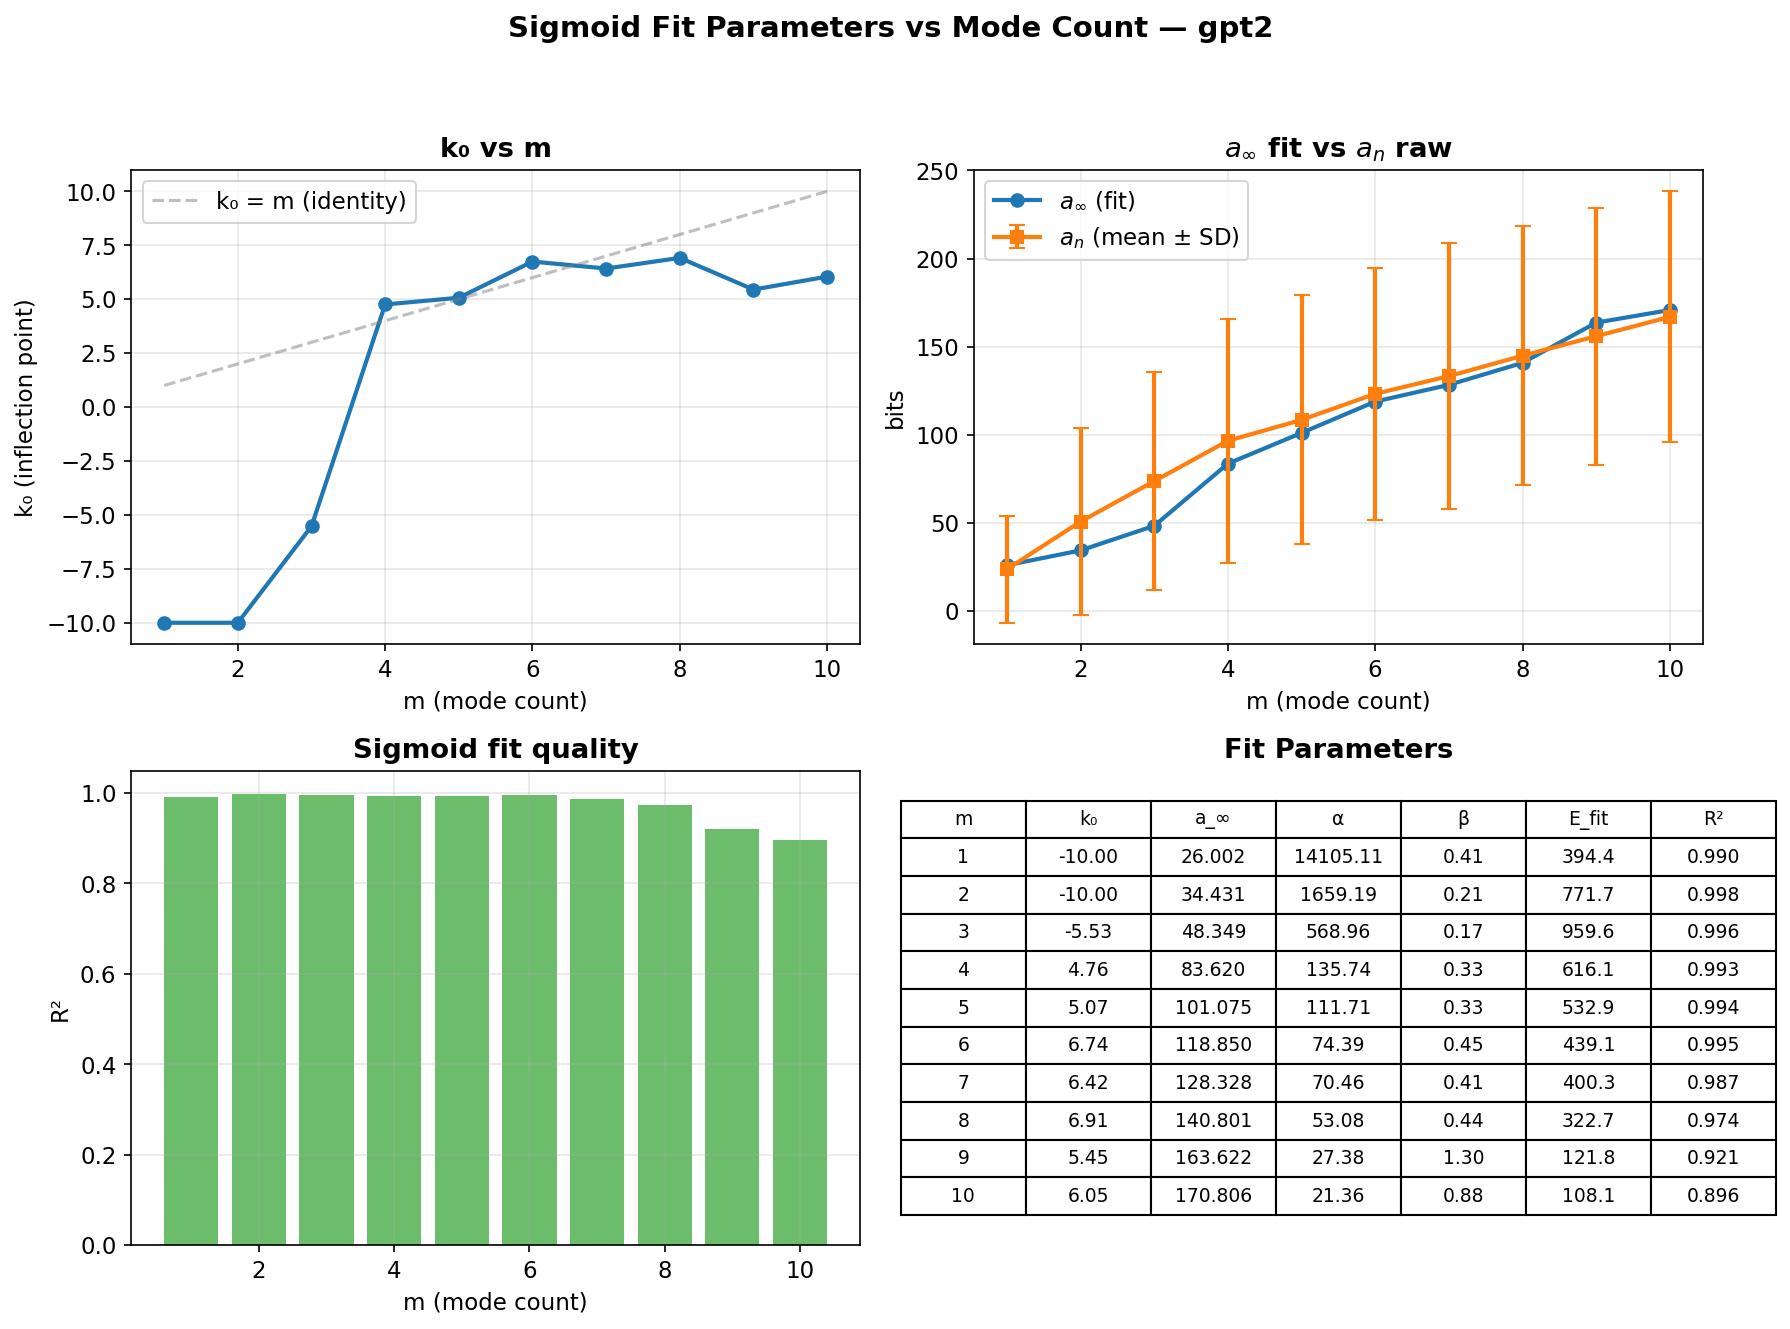
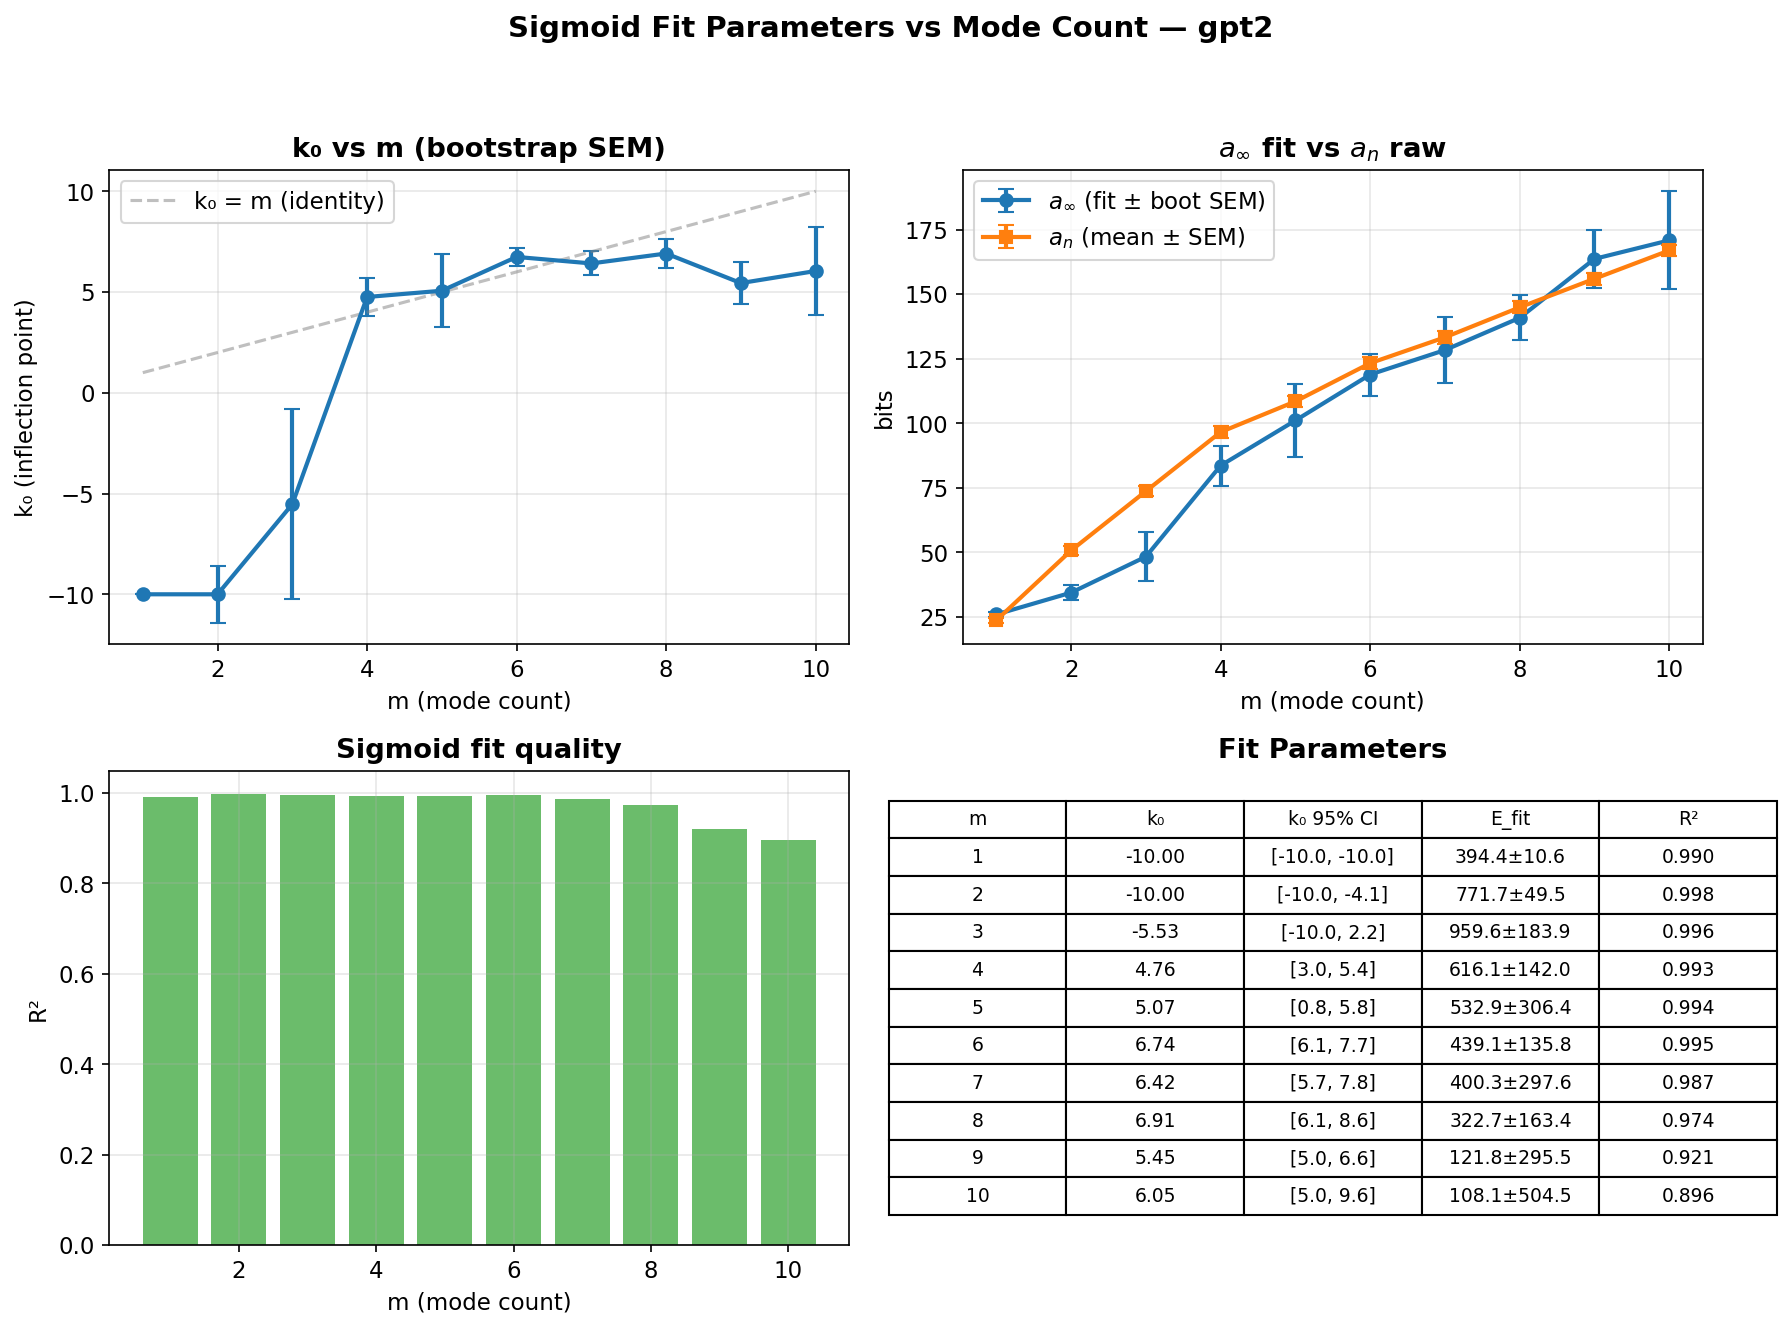
feat: bootstrap CIs for sigmoid fit params, switch to SEM bands
- Bootstrap (1000 resamples) gives 95% CI and SEM for k₀, E_fit, a_inf, etc.
- Sigmoid fits plot now shows ±1 SEM instead of ±1 SD
- Fit params plot shows bootstrap error bars on k₀ and a_inf
- Table shows k₀ 95% CI and E_fit ± bootstrap SEM

diff --git a/scripts/fit_ak_curves.py b/scripts/fit_ak_curves.py
@@ -97,8 +97,42 @@ def fit_sigmoid(k: np.ndarray, curve: np.ndarray) -> tuple[dict[str, float], boo
         return {"error": str(e)}, False
 
 
-def fit_mean_curves(data: dict[str, Any]) -> list[dict[str, Any]]:
-    """Fit sigmoid to the mean a_k curve for each mode count m."""
+def bootstrap_fit(
+    curves: np.ndarray,
+    n_bootstrap: int = 1000,
+    seed: int = 42,
+) -> dict[str, np.ndarray]:
+    """Bootstrap confidence intervals for sigmoid fit parameters.
+
+    Resamples draws with replacement, computes mean curve per resample,
+    fits sigmoid, and collects parameter distributions.
+
+    Returns dict mapping parameter name to array of bootstrapped values.
+    Failed fits are excluded.
+    """
+    rng = np.random.default_rng(seed)
+    n_draws = curves.shape[0]
+    k = np.arange(1, curves.shape[1] + 1, dtype=float)
+
+    param_names = ["a_inf", "alpha", "beta", "k0", "E_fit", "r_squared"]
+    boot_params: dict[str, list[float]] = {name: [] for name in param_names}
+
+    for _ in range(n_bootstrap):
+        indices = rng.integers(0, n_draws, size=n_draws)
+        mean_curve = np.mean(curves[indices], axis=0)
+        fit_params, success = fit_sigmoid(k, mean_curve)
+        if success:
+            for name in param_names:
+                boot_params[name].append(fit_params[name])
+
+    return {name: np.array(vals) for name, vals in boot_params.items()}
+
+
+def fit_mean_curves(data: dict[str, Any], n_bootstrap: int = 1000) -> list[dict[str, Any]]:
+    """Fit sigmoid to the mean a_k curve for each mode count m.
+
+    Includes bootstrap confidence intervals for all fit parameters.
+    """
     grouped: dict[int, list[dict]] = defaultdict(list)
     for run in data["runs"]:
         grouped[run["m"]].append(run)
@@ -113,6 +147,9 @@ def fit_mean_curves(data: dict[str, Any]) -> list[dict[str, Any]]:
 
         fit_params, success = fit_sigmoid(k, mean_curve)
 
+        # Bootstrap CIs
+        boot = bootstrap_fit(curves, n_bootstrap=n_bootstrap)
+
         entry = {
             "m": m,
             "n_draws": len(runs),
@@ -123,6 +160,18 @@ def fit_mean_curves(data: dict[str, Any]) -> list[dict[str, Any]]:
             "fit_success": success,
             **fit_params,
         }
+        # Add bootstrap SEM and 95% CI for each parameter
+        for name in ["a_inf", "alpha", "beta", "k0", "E_fit"]:
+            vals = boot[name]
+            if len(vals) > 0:
+                entry[f"{name}_boot_sem"] = float(np.std(vals))
+                entry[f"{name}_boot_ci_lo"] = float(np.percentile(vals, 2.5))
+                entry[f"{name}_boot_ci_hi"] = float(np.percentile(vals, 97.5))
+            else:
+                entry[f"{name}_boot_sem"] = np.nan
+                entry[f"{name}_boot_ci_lo"] = np.nan
+                entry[f"{name}_boot_ci_hi"] = np.nan
+
         results.append(entry)
     return results
 
@@ -145,17 +194,17 @@ def plot_fits(data: dict[str, Any], fit_results: list[dict], figures_dir: Path) 
         ax = axes[row][col]
         runs = grouped[m]
 
-        # Compute mean and SD across all draws
+        # Compute mean and SEM across all draws
         curves = np.array([np.array(run["a_k_curve"]) for run in runs])
         mean_curve = np.mean(curves, axis=0)
-        std_curve = np.std(curves, axis=0)
+        sem_curve = np.std(curves, axis=0) / np.sqrt(len(runs))
         k = np.arange(1, len(mean_curve) + 1)
 
-        # Plot mean curve + SD band
+        # Plot mean curve + SEM band
         color = "#1f77b4"
         ax.plot(k, mean_curve, "o-", markersize=5, linewidth=2, color=color, label="mean $a_k$")
-        ax.fill_between(k, mean_curve - std_curve, mean_curve + std_curve,
-                        alpha=0.2, color=color, label="±1 SD")
+        ax.fill_between(k, mean_curve - sem_curve, mean_curve + sem_curve,
+                        alpha=0.3, color=color, label="±1 SEM")
 
         # Overlay sigmoid fit from pre-computed results
         fit = fit_by_m.get(m)
@@ -190,27 +239,32 @@ def plot_fit_params_vs_m(fit_results: list[dict], figures_dir: Path, model_name:
 
     m_vals = [f["m"] for f in fits]
     k0_vals = [f["k0"] for f in fits]
+    k0_sems = [f.get("k0_boot_sem", 0) for f in fits]
     a_inf_vals = [f["a_inf"] for f in fits]
+    a_inf_sems = [f.get("a_inf_boot_sem", 0) for f in fits]
     a_n_means = [f["a_n_mean"] for f in fits]
-    a_n_stds = [f["a_n_std"] for f in fits]
+    a_n_sems = [f["a_n_std"] / np.sqrt(f["n_draws"]) for f in fits]
+    E_fit_vals = [f["E_fit"] for f in fits]
+    E_fit_sems = [f.get("E_fit_boot_sem", 0) for f in fits]
     r2_vals = [f["r_squared"] for f in fits]
 
     fig, axes = plt.subplots(2, 2, figsize=(12, 9))
 
     # k0 vs m
     ax = axes[0, 0]
-    ax.plot(m_vals, k0_vals, marker="o", linewidth=2)
+    ax.errorbar(m_vals, k0_vals, yerr=k0_sems, marker="o", capsize=4, linewidth=2)
     ax.plot(m_vals, m_vals, "--", color="gray", alpha=0.5, label="k₀ = m (identity)")
     ax.set_xlabel("m (mode count)")
     ax.set_ylabel("k₀ (inflection point)")
-    ax.set_title("k₀ vs m", fontweight="bold")
+    ax.set_title("k₀ vs m (bootstrap SEM)", fontweight="bold")
     ax.legend()
 
     # a_inf (fit) vs a_n (raw)
     ax = axes[0, 1]
-    ax.plot(m_vals, a_inf_vals, marker="o", linewidth=2, label="$a_\\infty$ (fit)")
-    ax.errorbar(m_vals, a_n_means, yerr=a_n_stds, marker="s", capsize=4,
-                linewidth=2, label="$a_n$ (mean ± SD)")
+    ax.errorbar(m_vals, a_inf_vals, yerr=a_inf_sems, marker="o", capsize=4,
+                linewidth=2, label="$a_\\infty$ (fit ± boot SEM)")
+    ax.errorbar(m_vals, a_n_means, yerr=a_n_sems, marker="s", capsize=4,
+                linewidth=2, label="$a_n$ (mean ± SEM)")
     ax.set_xlabel("m (mode count)")
     ax.set_ylabel("bits")
     ax.set_title("$a_\\infty$ fit vs $a_n$ raw", fontweight="bold")
@@ -229,18 +283,17 @@ def plot_fit_params_vs_m(fit_results: list[dict], figures_dir: Path, model_name:
     ax.axis("off")
     table_data = []
     for f in fits:
+        k0_ci = f"[{f.get('k0_boot_ci_lo', 0):.1f}, {f.get('k0_boot_ci_hi', 0):.1f}]"
         table_data.append([
             str(f["m"]),
             f"{f['k0']:.2f}",
-            f"{f['a_inf']:.3f}",
-            f"{f['alpha']:.2f}",
-            f"{f['beta']:.2f}",
-            f"{f['E_fit']:.1f}",
+            k0_ci,
+            f"{f['E_fit']:.1f}±{f.get('E_fit_boot_sem', 0):.1f}",
             f"{f['r_squared']:.3f}",
         ])
     table = ax.table(
         cellText=table_data,
-        colLabels=["m", "k₀", "a_∞", "α", "β", "E_fit", "R²"],
+        colLabels=["m", "k₀", "k₀ 95% CI", "E_fit", "R²"],
         loc="center",
         cellLoc="center",
     )
@@ -278,13 +331,14 @@ def main() -> None:
     print(f"  {n_success}/{len(fit_results)} fits successful")
 
     # Print summary table
-    print(f"\n{'m':>4} {'draws':>6} {'k0':>8} {'a_inf':>8} {'a_n':>8} {'alpha':>8} {'beta':>8} {'E_fit':>8} {'R2':>8}")
-    print("-" * 72)
+    print(f"\n{'m':>4} {'draws':>6} {'k0':>8} {'k0_CI':>18} {'E_fit':>8} {'E_fit_CI':>18} {'R2':>8}")
+    print("-" * 80)
     for r in fit_results:
         if r.get("fit_success"):
-            print(f"{r['m']:>4} {r['n_draws']:>6} {r['k0']:>8.2f} {r['a_inf']:>8.3f} "
-                  f"{r['a_n_mean']:>8.3f} {r['alpha']:>8.2f} {r['beta']:>8.2f} "
-                  f"{r['E_fit']:>8.1f} {r['r_squared']:>8.3f}")
+            k0_ci = f"[{r.get('k0_boot_ci_lo', 0):.1f}, {r.get('k0_boot_ci_hi', 0):.1f}]"
+            ef_ci = f"[{r.get('E_fit_boot_ci_lo', 0):.0f}, {r.get('E_fit_boot_ci_hi', 0):.0f}]"
+            print(f"{r['m']:>4} {r['n_draws']:>6} {r['k0']:>8.2f} {k0_ci:>18} "
+                  f"{r['E_fit']:>8.1f} {ef_ci:>18} {r['r_squared']:>8.3f}")
         else:
             print(f"{r['m']:>4} {r['n_draws']:>6}  FAILED: {r.get('error', 'unknown')}")
 
